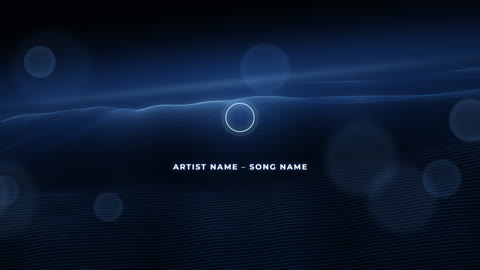
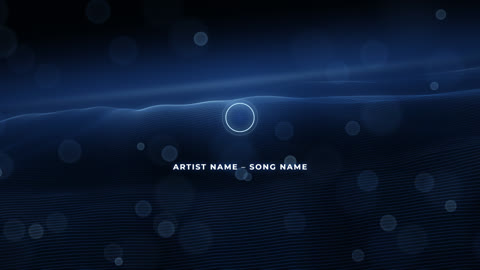
fix: Deep Swell bokeh as many soft orbs
The Bokeh preset now draws 60 seeded orbs all over the frame, as the updated spec says:
6 in every 20 small (15–40 px) and fairly sharp, 12 mid-sized, 2 large and very soft,
drifting slowly. Still off by default.

diff --git a/src/lib/deep-swell-motion.test.ts b/src/lib/deep-swell-motion.test.ts
@@ -71,7 +71,8 @@ function lowAt(analysis: ToolkitAnalysis, t: number): number {
 
 describe("Deep Swell motion", () => {
   it("is set up as the spec says", () => {
-    expect(m.ORB_COUNT).toBe(12);
+    expect(m.ORB_COUNT).toBeGreaterThanOrEqual(40);
+    expect(m.ORB_COUNT).toBeLessThanOrEqual(80);
     expect(m.LOGO_SIZE).toBe(220);
     expect(m.LOGO_PULSE).toBe(0.04);
     expect(m.H_FULL).toBeGreaterThan(0);
@@ -226,18 +227,18 @@ describe("Deep Swell motion", () => {
     expect(m.crestGain(1, 2)).toBeLessThanOrEqual(2);
   });
 
-  it("bokeh orbs: 12, seeded, slow, brightness 0.6 + 0.4 × loud", () => {
+  it("bokeh orbs: 40–80, seeded, slow, brightness 0.6 + 0.4 × loud", () => {
     const quiet = m.orbs(30, 0, viz.mulberry32);
     const loud = m.orbs(30, 1, viz.mulberry32);
-    expect(quiet).toHaveLength(12);
-    for (let i = 0; i < 12; i++) {
+    expect(quiet).toHaveLength(m.ORB_COUNT);
+    for (let i = 0; i < m.ORB_COUNT; i++) {
       const q = quiet[i],
         l = loud[i];
       expect([q.x, q.y, q.r]).toEqual([l.x, l.y, l.r]);
       expect(q.alpha).toBeCloseTo(l.alpha * 0.6, 9);
       expect(l.alpha).toBeGreaterThan(0);
       expect(l.alpha).toBeLessThanOrEqual(1);
-      expect(q.r).toBeGreaterThanOrEqual(40);
+      expect(q.r).toBeGreaterThanOrEqual(15);
       expect(q.r).toBeLessThanOrEqual(200);
       // somewhere on (or just off) the frame
       expect(q.x).toBeGreaterThanOrEqual(-q.r - 1);
@@ -247,10 +248,29 @@ describe("Deep Swell motion", () => {
     }
     // the same song time places them the same; they differ from one another
     expect(m.orbs(30, 0.4, viz.mulberry32)).toEqual(m.orbs(30, 0.4, viz.mulberry32));
-    expect(new Set(quiet.map((o) => Math.round(o.x))).size).toBeGreaterThan(8);
+    expect(new Set(quiet.map((o) => Math.round(o.x))).size).toBeGreaterThan(m.ORB_COUNT * 0.8);
+    // mixed sizes: some small (sharp), most mid-sized, a few large (very soft)
+    const radii = quiet.map((o) => o.r);
+    const small = radii.filter((r) => r <= 40).length;
+    const large = radii.filter((r) => r >= 110).length;
+    expect(small).toBeGreaterThanOrEqual(m.ORB_COUNT * 0.15);
+    expect(large).toBeGreaterThanOrEqual(3);
+    expect(large).toBeLessThan(small);
+    expect(m.ORB_COUNT - small - large).toBeGreaterThan(m.ORB_COUNT / 2);
+    // spread over the whole frame: every quarter of it has some
+    for (const [x0, y0] of [
+      [0, 0],
+      [960, 0],
+      [0, 540],
+      [960, 540],
+    ])
+      expect(
+        quiet.filter((o) => o.x >= x0 && o.x < x0 + 960 && o.y >= y0 && o.y < y0 + 540).length,
+        `quarter ${x0},${y0}`,
+      ).toBeGreaterThanOrEqual(5);
     // they drift slowly: under 40 px in a second (away from the wrap at the frame's edges)
     const later = m.orbs(31, 0, viz.mulberry32);
-    for (let i = 0; i < 12; i++) {
+    for (let i = 0; i < m.ORB_COUNT; i++) {
       const d = Math.hypot(later[i].x - quiet[i].x, later[i].y - quiet[i].y);
       if (d < 1000) expect(d).toBeLessThan(40);
     }

diff --git a/templates/deep-swell/index.html b/templates/deep-swell/index.html
@@ -557,7 +557,7 @@
           "uniform float loud, env, horizonN, rollS, rollC, glow, orbOn;",
           "uniform vec2 logoPos;",
           "uniform float textY;",
-          "uniform vec4 orbs[12];",
+          "uniform vec4 orbs[" + M.ORB_COUNT + "];",
           "varying vec2 uv;",
           "float hash(vec2 p){ return fract(sin(dot(mod(p, 256.0), vec2(127.1, 311.7))) * 43758.5453); }",
           "void main(){",
@@ -580,15 +580,16 @@
           "  c *= 1.0 - 0.35 * exp(-dot(tq, tq));",
           "  vec2 lq = (px - logoPos) / 175.0;",
           "  c += mainCol * exp(-dot(lq, lq)) * (0.05 + 0.14 * env);",
-          "  for (int i = 0; i < 12; i++) {",
+          "  for (int i = 0; i < " + M.ORB_COUNT + "; i++) {",
           "    vec4 o = orbs[i];",
           "    float dd = length(px - o.xy) / max(o.z, 1.0);",
           // small orbs are sharper, big ones softer (further out of focus)
-          "    float soft = mix(0.9, 0.62, smoothstep(60.0, 190.0, o.z));",
+          "    float soft = mix(0.86, 0.2, smoothstep(30.0, 180.0, o.z));",
           "    float disc = 1.0 - smoothstep(soft, 1.0, dd);",
           "    float rim = 0.65 + 0.35 * smoothstep(0.45, 0.96, dd);",
-          "    vec3 oc = mix(mainCol, hiCol, 0.25 + 0.5 * fract(float(i) * 0.618));",
-          "    c += oc * disc * rim * o.w * 0.3 * orbOn;",
+          "    float small = 1.0 - smoothstep(15.0, 60.0, o.z);",
+          "    vec3 oc = mix(mainCol, hiCol, 0.2 + 0.4 * fract(float(i) * 0.618) + 0.4 * small);",
+          "    c += oc * disc * rim * o.w * (0.3 + 0.2 * small) * orbOn;",
           "  }",
           "  c = vec3(1.0) - exp(-c * 1.5);",
           "  c *= mix(0.6, 1.0, smoothstep(1.2, 0.35, length((uv - 0.5) * vec2(1.15, 1.0))));",
@@ -634,7 +635,7 @@
           var means = new Float32Array(M.LOW_AGES.length);
           var ripRow = new Float32Array(NPTS);
           var ripBytes = new Uint8Array(NPTS * HIST_ROWS);
-          var orbData = new Float32Array(48);
+          var orbData = new Float32Array(M.ORB_COUNT * 4);
 
           var W = Math.round(1920 * PREVIEW_SCALE),
             H = Math.round(1080 * PREVIEW_SCALE);

diff --git a/templates/deep-swell/assets/swell-motion.js b/templates/deep-swell/assets/swell-motion.js
@@ -51,8 +51,19 @@
   var LOGO_PULSE = 0.04; // scale added by a full beat
   var PULSE_RELEASE = 0.25; // seconds for the pulse to fall to about a third
 
-  // ---- the bokeh orbs ----
-  var ORB_COUNT = 12;
+  // ---- the bokeh orbs: many, of mixed sizes, all over the frame ----
+  var ORB_COUNT = 60;
+  // Sizes by kind, in turn through every 20 orbs: 6 small and fairly sharp, 12 mid-sized, 2 large
+  // and very soft. [smallest radius, largest radius, faintest, brightest] in px and alpha.
+  var ORB_KINDS = [
+    [15, 40, 0.3, 0.6],
+    [40, 110, 0.12, 0.3],
+    [110, 200, 0.07, 0.15],
+  ];
+  function orbKind(i) {
+    var k = i % 20;
+    return k < 6 ? 0 : k < 18 ? 1 : 2;
+  }
   var ORB_SEED = 7331;
 
   function clamp(v, lo, hi) {
@@ -154,17 +165,17 @@
     var rnd = mulberry32(ORB_SEED);
     var list = [];
     for (var i = 0; i < ORB_COUNT; i++) {
-      var r = 60 + rnd() * 130;
+      var kind = ORB_KINDS[orbKind(i)];
       list.push({
         x0: rnd() * 1920,
-        y0: 140 + rnd() * 800,
-        r: r,
+        y0: 40 + rnd() * 1000,
+        r: kind[0] + rnd() * (kind[1] - kind[0]),
         vx: (rnd() < 0.5 ? -1 : 1) * (5 + rnd() * 11), // px per second, left or right
-        bob: 15 + rnd() * 35, // px up and down
+        bob: 10 + rnd() * 20, // px up and down
         bobRate: TAU * (0.025 + rnd() * 0.045), // radians per second
         phase: rnd() * TAU,
-        // big orbs are fainter, so none dominates
-        alpha: (0.28 + rnd() * 0.3) * (1.15 - (0.45 * (r - 60)) / 130),
+        // small orbs are bright points, big ones faint haze, so none dominates
+        alpha: kind[2] + rnd() * (kind[3] - kind[2]),
       });
     }
     orbCache = { fn: mulberry32, list: list };
@@ -172,7 +183,7 @@
   }
 
   /**
-   * The 12 bokeh orbs at this song time: { x, y, r, alpha } in px. They drift slowly sideways
+   * The bokeh orbs at this song time: { x, y, r, alpha } in px. They drift slowly sideways
    * (wrapping round the frame) and bob; brightness alpha × (0.6 + 0.4 × loud).
    */
   function orbs(songTime, loud, mulberry32) {
